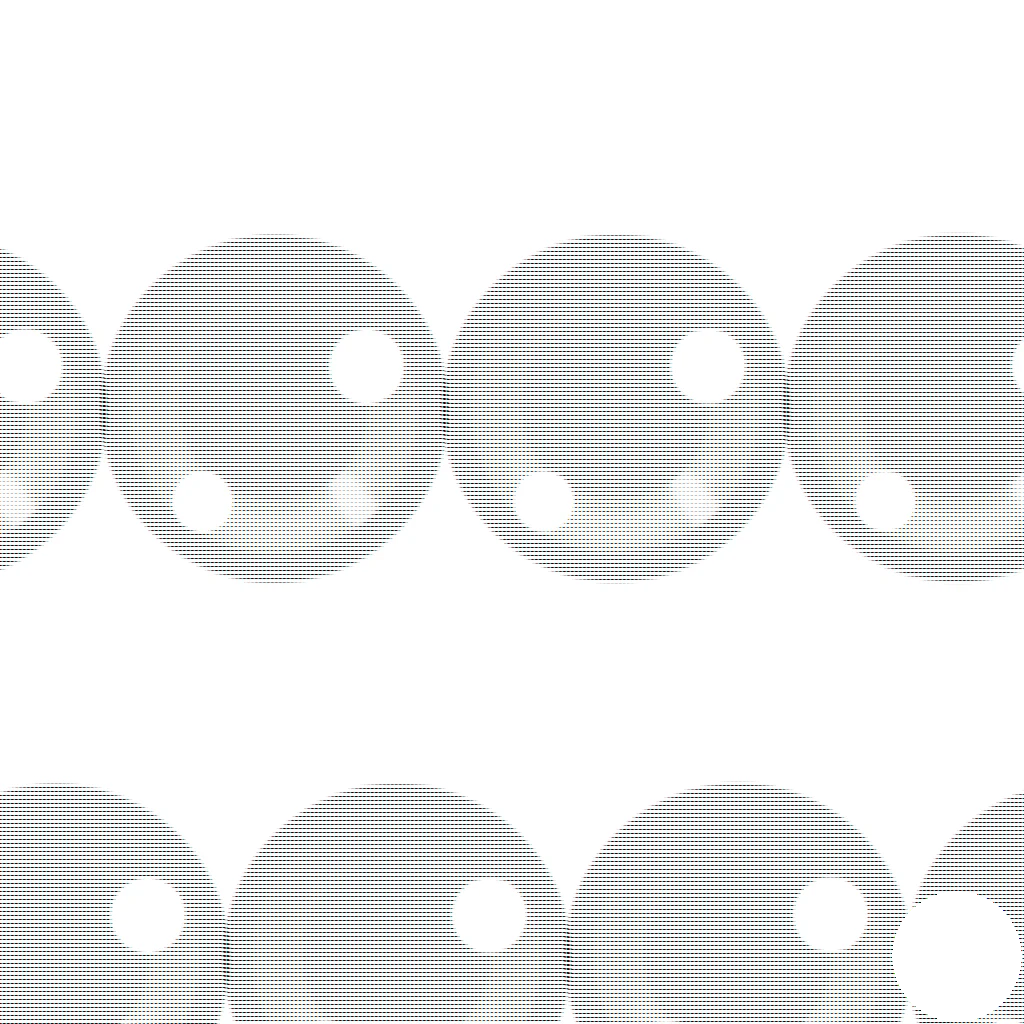
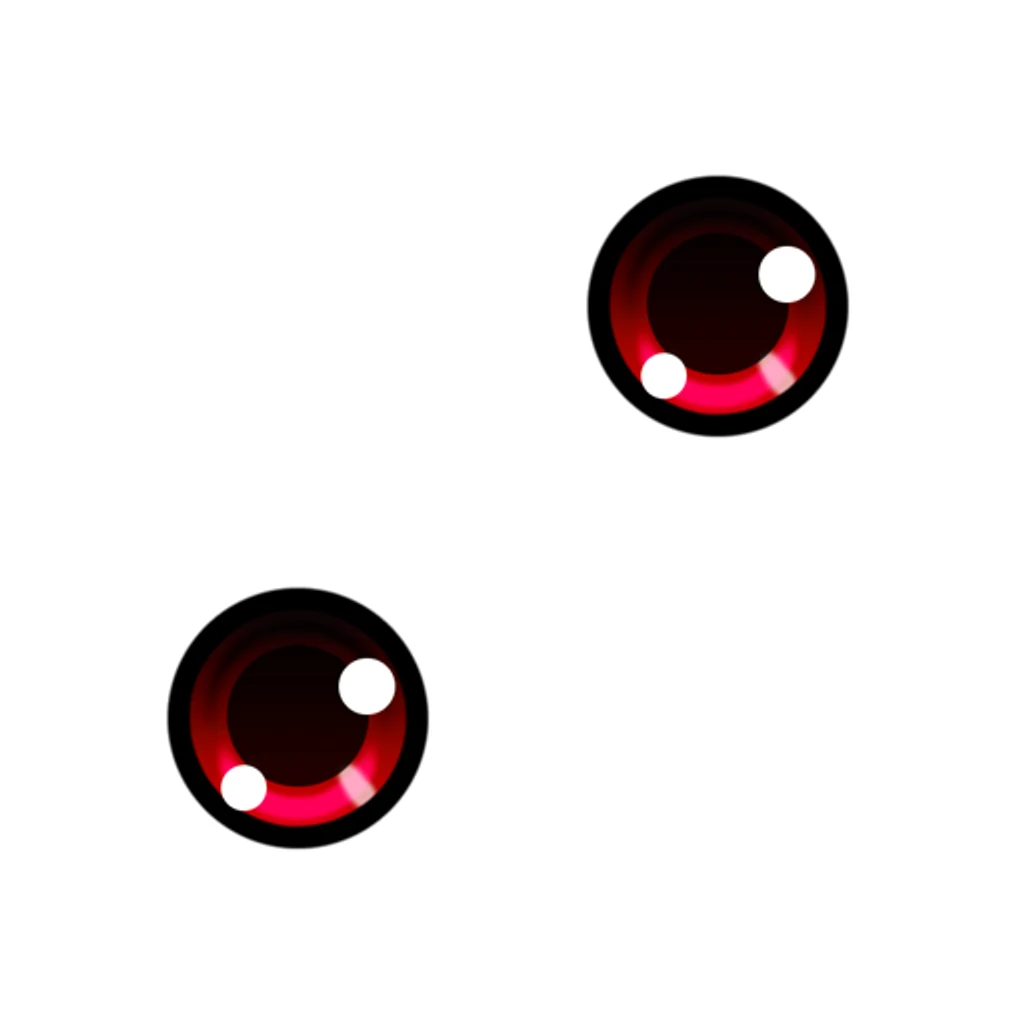
fix: take the opaque eye textures' colour by their own channel count when giving them the cornea cut
An opaque texture's raw pixels still carried a fourth channel, so the toon eyes were
read with the wrong stride and packed as a tiled smear. They are read by the channel
count sharp reports.

Claude-Session: https://claude.ai/code/session_011rz4xZtK1xmDHg8Ris2edH

Changed region(s): [[0.0, 0.1562, 1.0, 1.0], [0.9062, 0.7812, 1.0, 0.9062], [0.9688, 0.9688, 1.0, 1.0]]

diff --git a/scripts/lib/packEyes.ts b/scripts/lib/packEyes.ts
@@ -235,12 +235,13 @@ async function encode(png: Buffer, cornea: Buffer): Promise<Buffer> {
     .toBuffer({ resolveWithObject: true });
   if (!data.every((a) => a === 255))
     return resized.webp({ quality: 88, alphaQuality: 100, effort: 6 }).toBuffer();
-  const rgb = await resized.removeAlpha().raw().toBuffer();
+  const { data: raw, info } = await resized.raw().toBuffer({ resolveWithObject: true });
+  const stride = info.channels;
   const rgba = Buffer.alloc(TEXTURE_MAX * TEXTURE_MAX * 4);
   for (let i = 0; i < TEXTURE_MAX * TEXTURE_MAX; i++) {
-    rgba[i * 4] = rgb[i * 3] as number;
-    rgba[i * 4 + 1] = rgb[i * 3 + 1] as number;
-    rgba[i * 4 + 2] = rgb[i * 3 + 2] as number;
+    rgba[i * 4] = raw[i * stride] as number;
+    rgba[i * 4 + 1] = raw[i * stride + 1] as number;
+    rgba[i * 4 + 2] = raw[i * stride + 2] as number;
     rgba[i * 4 + 3] = cornea[i] as number;
   }
   return sharp(rgba, { raw: { width: TEXTURE_MAX, height: TEXTURE_MAX, channels: 4 } })

diff --git a/packs/eyes/data/PROVENANCE.md b/packs/eyes/data/PROVENANCE.md
@@ -63,9 +63,9 @@ from the pixels by `measureEye`; nothing is authored.
[12 lines of base64/hex data omitted]
